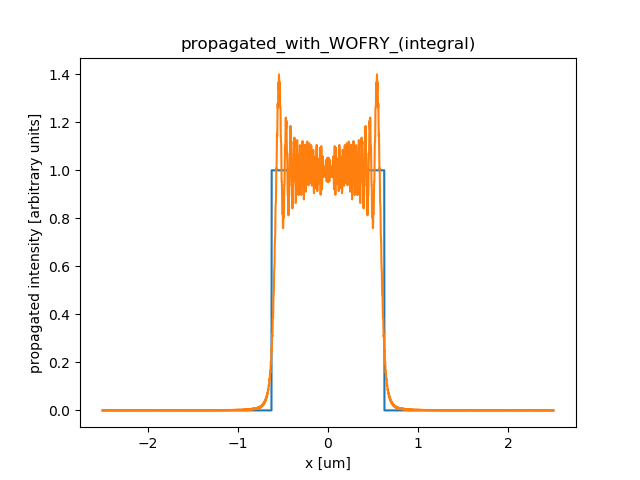
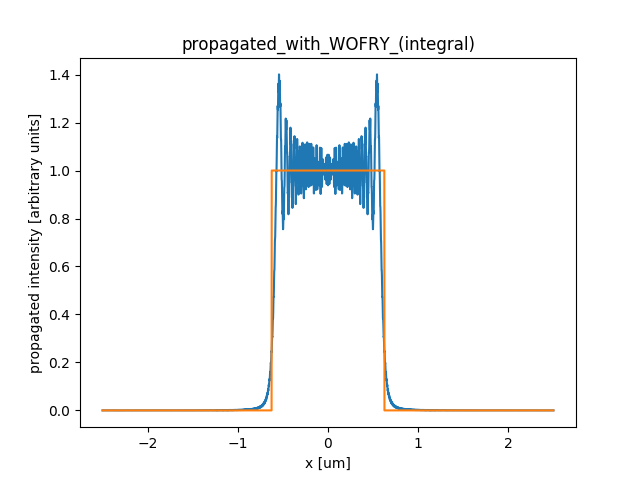
fig 1

diff --git a/examples/aperture_1D.py b/examples/aperture_1D.py
@@ -2,6 +2,7 @@
 
 import numpy as np
 import matplotlib.pylab as plt
+import scipy.constants as codata
 
 # please make specific imports insode the funcctions.
 
@@ -138,13 +139,26 @@ def propagate_with_sajid(wavefront,x,wavelength,propagation_distance,method="pro
 
 
 
-def plot_intensity(wavefront,x,xlabel="",ylabel="",title=""):
+def plot_intensity(wavefront,x,wavefront2=None,x2=None,
+                   xlabel="",ylabel="",title="",legend=[None,None],legend_position=None,
+                   dumpfile=None):
     # plot intensity
-    plt.plot(x,np.abs(wavefront)**2)
+    plt.clf()
+    plt.plot(x,np.abs(wavefront)**2,label=legend[0])
+    if wavefront2 is not None:
+        plt.plot(x2, np.abs(wavefront2) ** 2,label=legend[1])
     plt.xlabel(xlabel)
     plt.ylabel(ylabel)
     plt.title(title)
-    plt.savefig(title+".png")
+
+    ax = plt.subplot(111)
+    if legend[0] is not None:
+        ax.legend(bbox_to_anchor=legend_position)
+
+    if dumpfile is not None:
+        plt.savefig(dumpfile)
+        print("File written to disk: %s"%dumpfile)
+    plt.show()
 
 if __name__ == "__main__":
 
@@ -153,18 +167,18 @@ if __name__ == "__main__":
     #
     # Input data (far fieeld, as in wofry tests)
     #
-    # wavelength = 1e-10
-    # window_size = 1500e-6
-    # aperture_diameter = 40e-6
-    # npoints = 1024
-    # propagation_distance = 30.0
+    wavelength = 1e-10
+    window_size = 1500e-6
+    aperture_diameter = 40e-6
+    npoints = 1024
+    propagation_distance = 30.0
 
 
     #
     # Input data (near field, as in sajid tests)
     #
     energy = 10000.0
-    wavelength = (1240/energy)*10**(-9)
+    wavelength = ( codata.h*codata.c/codata.e*1e9 /energy)*10**(-9)
     window_size = 5e-6
     aperture_diameter = window_size/4
     npoints = 2048
@@ -180,7 +194,8 @@ if __name__ == "__main__":
     # apply aperture
     wavefront[np.where(np.abs(x)>(aperture_diameter/2))] = 0.0
 
-    plot_intensity(wavefront,1e6*x,xlabel="x [um]",ylabel="source intensity [arbitrary units]",title="incident wavefront")
+    plot_intensity(wavefront,1e6*x,
+                   xlabel="x [um]",ylabel="source intensity [arbitrary units]",title="incident wavefront")
 
     #
     # propagation wofry
@@ -188,22 +203,36 @@ if __name__ == "__main__":
     method = "integral"
     wavefront_propagated, x_propagated = propagate_with_wofry(wavefront,x,wavelength,propagation_distance,method=method)
 
-    plot_intensity(wavefront_propagated,1e6*x_propagated,xlabel="x [um]",ylabel="propagated intensity [arbitrary units]",
-                   title="propagated_with_WOFRY_(%s)"%method)
+    plot_intensity(wavefront_propagated,1e6*x_propagated,wavefront, 1e6 * x,
+                xlabel="x [um]",ylabel="propagated intensity [arbitrary units]",
+                title="propagated_with_WOFRY_(%s)"%method)
 
 
     #
     # propagation sajid
     #
-    plt.clf()
-    x = np.linspace(-0.5*window_size,0.5*window_size,npoints)
-    wavefront = np.ones(npoints,dtype=complex)
-    wavefront[np.where(np.abs(x)>(aperture_diameter/2))] = 0.0
-    plot_intensity(wavefront,1e6*x,xlabel="x [um]",ylabel="source intensity [arbitrary units]",title="incident wavefront")
-    
-    method="propTF"
-    wavefront_propagated_s, L_propagated_s = propagate_with_sajid(wavefront,x,wavelength,propagation_distance,method=method)
+
+    # x = np.linspace(-0.5*window_size,0.5*window_size,npoints)
+    # wavefront = np.ones(npoints,dtype=complex)
+    # wavefront[np.where(np.abs(x)>(aperture_diameter/2))] = 0.0
+    # plot_intensity(wavefront,1e6*x,xlabel="x [um]",ylabel="source intensity [arbitrary units]",title="incident wavefront")
+
+    # method_s = "propTF"
+    # method_s = "exact_prop"
+    method_s = "exact_prop_numba"
+    wavefront_propagated_s, L_propagated_s = propagate_with_sajid(wavefront,x,wavelength,propagation_distance,method=method_s)
     x_propagated_s = np.linspace(-0.5*L_propagated_s,0.5*L_propagated_s,np.shape(wavefront_propagated_s)[0])
-    
-    plot_intensity(wavefront_propagated_s,1e6*x_propagated_s,xlabel="x [um]",ylabel="propagated intensity [arbitrary units]",
-                  title="propagated_with_SAJID_(%s)"%method)
+
+    plot_intensity(wavefront_propagated_s,1e6*x_propagated_s,wavefront, 1e6 * x,
+                xlabel="x [um]",ylabel="propagated intensity [arbitrary units]",
+                title="propagated_with_SAJID_(%s)"%method_s)
+
+
+    #
+    #plot comparison
+    #
+    plot_intensity(wavefront_propagated_s,1e6*x_propagated_s,
+                        wavefront_propagated, 1e6 * x_propagated,
+                        xlabel="x [um]",ylabel="propagated intensity [arbitrary units]",
+                        legend=["XWP(%s)"%method_s,"WOFRY(%s)"%method],legend_position=[0.5,0.5],
+                        dumpfile="aperture_1D.png")
